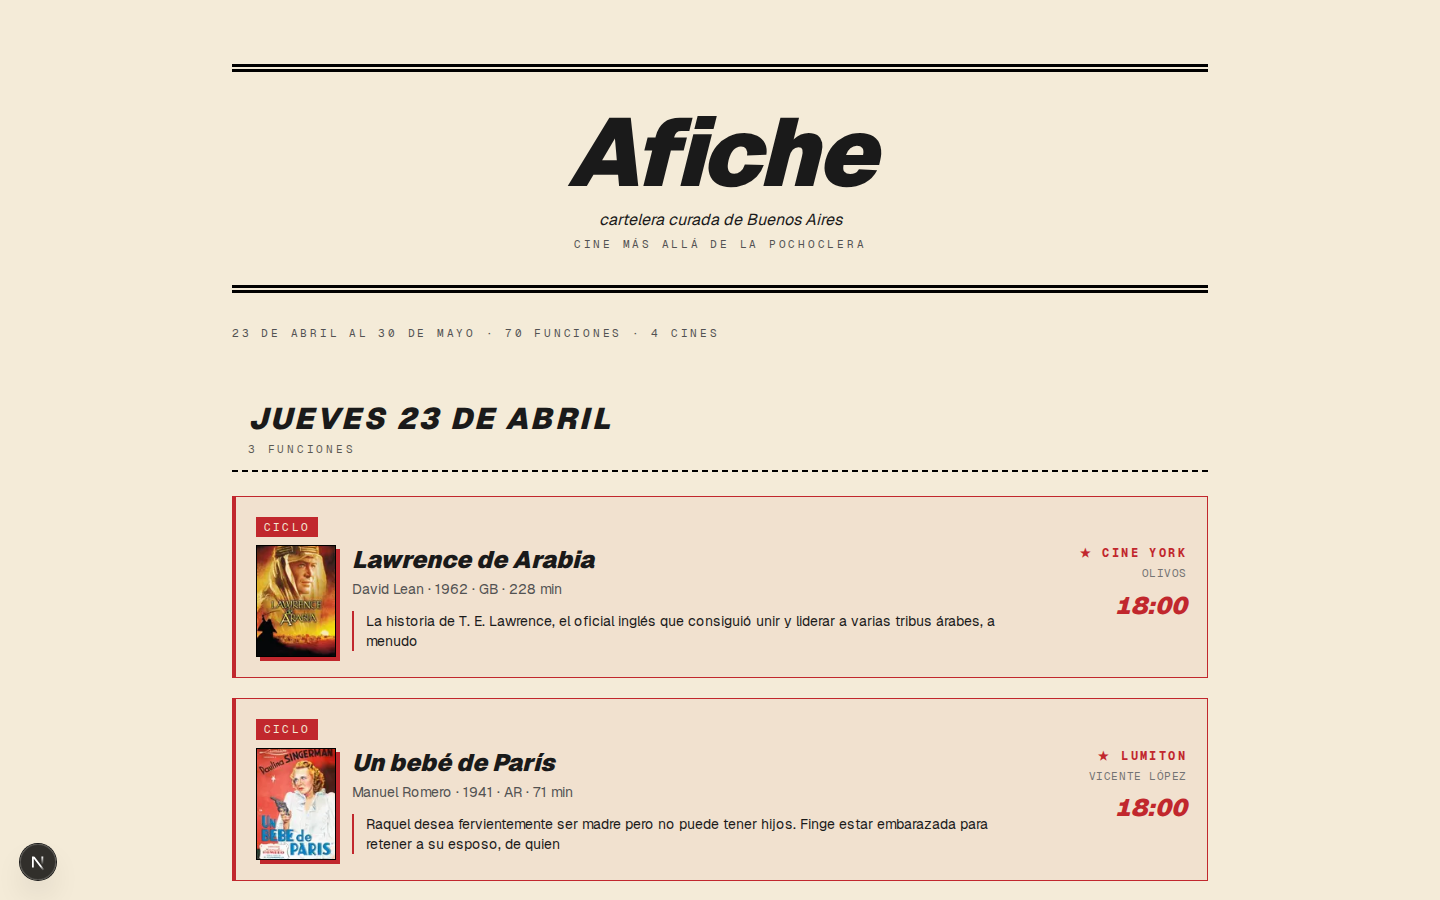
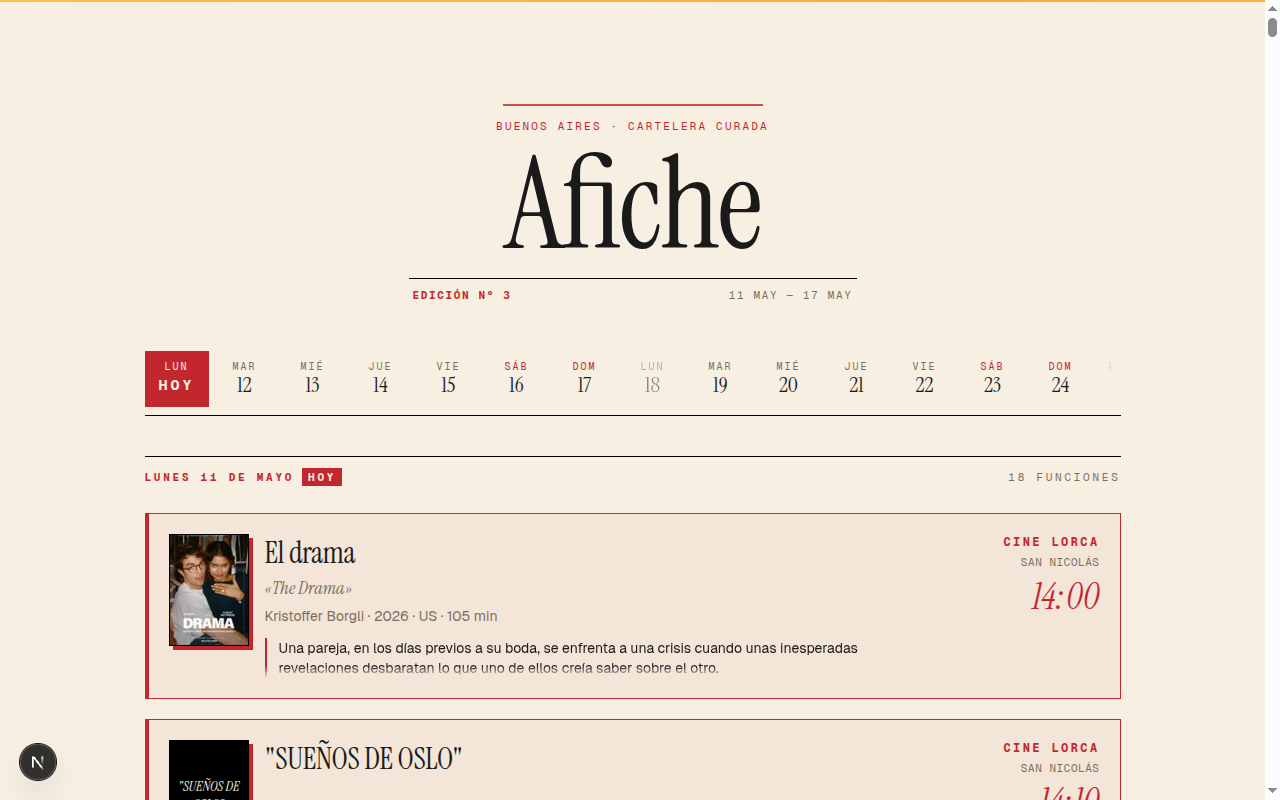
docs(readme): refresh for 2-tier cartelera + 7-cinema reality + fresh hero shots
The README had drifted significantly across the 2026-04 → 2026-05 work
cycle. Major staleness fixed in one pass:

- Tier structure: described as 3-tier (Esta semana / Este mes /
  Próximamente) but consolidated to 2-tier (14-day rolling window +
  Próximamente) in v0.2.0.x when the sticky date strip replaced
  scroll-skim navigation.
- Cinema count: said "5 indie cinemas" but actually 7 active now
  (added Cine Lorca and Cine Cosmos since the README was last touched).
  Cinemas table updated with both, including verified neighborhoods
  (Cine Cosmos is Balvanera, not Recoleta) and actual source domains.
- /pelicula/<slug> pages: README still listed "no film detail pages"
  as a NOT-yet item. They've shipped, cross-venue all-screenings is
  the killer feature there. Added a paragraph describing it.
- Stack: added Instrument Serif to the typography list (was Geist-only).
- Test count: 134 → 302 across 16 files (was 10).
- Test file inventory updated to include slug, queries, layout-invariants,
  cine-cosmos, cine-lorca, cine-lorca-cache.
- Architecture diagram: ×5 → ×7 providers, tier query names updated
  (getTwoWeeksScreenings + getUpcomingScreenings instead of the old
  three-tier getThisWeek/getThisMonth/getUpcoming names), added the
  /pelicula/<slug> sub-graph.
- Roadmap: dropped resolved items (MALBA 24:00 midnight parsing,
  Lumiton detail-page synopsis enrichment). Added the indexability
  question (#19) and Cine Lorca's VLM credit attribution.
[…]

diff --git a/README.md b/README.md
@@ -2,47 +2,51 @@
 
 **Cartelera curada de Buenos Aires — cine más allá de la pochoclera.**
 
-Afiche aggregates the weekly programming of Buenos Aires' independent and repertory cinemas into one clean, editorial-feel cartelera — a three-tier view (Esta semana → Este mes → Próximamente) that steps down in density as the horizon grows. Built for people who already know the difference between a Saturday at Lugones and a Saturday at Hoyts.
+Afiche aggregates the weekly programming of Buenos Aires' independent and repertory cinemas into one clean, editorial-feel cartelera — a 14-day rolling window of full cards (navigated by a sticky date strip that jumps to any day) plus a "Próximamente" text index for the longer tail. Built for people who already know the difference between a Saturday at Lugones and a Saturday at Hoyts.
 
-![Afiche week view](docs/screenshots/hero-desktop.png)
+![Afiche cartelera, desktop](docs/screenshots/hero-desktop.png)
 
 > [!NOTE]
-> Afiche is a personal project, now **live at [afiche.vercel.app](https://afiche.vercel.app)** (Next.js on Vercel + libSQL on Turso). The cron that refreshes prod runs from the dev machine (`npm run scrape:prod`), not GitHub Actions — runner IPs get 403'd by Cloudflare at lumiton.ar and complejoteatral.gob.ar. See [DEPLOY.md](DEPLOY.md) for the full ops setup. You can also clone the repo and run everything locally against a SQLite file — same code path, no Turso token needed.
+> Afiche is a personal project, **live at [afiche.vercel.app](https://afiche.vercel.app)** (Next.js on Vercel + libSQL on Turso). The cron that refreshes prod runs from the dev machine (`npm run scrape:prod`), not GitHub Actions — runner IPs get 403'd by Cloudflare at lumiton.ar and complejoteatral.gob.ar. See [DEPLOY.md](DEPLOY.md) for the full ops setup. You can also clone the repo and run everything locally against a SQLite file — same code path, no Turso token needed.
 
 ## What it does
 
-- **Scrapes 5 indie cinemas** every run: Sala Lugones, MALBA (two schedule formats), Cine York, Centro Cultural Munro, and the Lumiton flagship venue.
-- **Enriches each film via TMDB**: poster, director, runtime, country, original title. Smart merge logic handles the case where the same film surfaces without a year at one cinema and with a year at another.
-- **Renders a three-tier cartelera** — a server-rendered Next.js 16 page. *Esta semana* shows full cards grouped by day (the decision layer). *Este mes* compresses to compact cards for the rest of the current month. *Próximamente* is a flat text index for everything beyond, zine-back-page style. Chain cinemas (when we add them) get a de-emphasized typographic treatment, not a hidden toggle — curation is visible.
+- **Scrapes 7 indie cinemas** every run: Sala Lugones, MALBA (two schedule formats: dense-cycle + single-event prose), Cine York, Centro Cultural Munro, Lumiton, Cine Cosmos, and Cine Lorca (whose programming lives on a single weekly poster image — extracted via a Claude vision call with an image-hash cache).
+- **Enriches each film via TMDB**: poster, backdrop, director, runtime, country, original title, Spanish synopsis (es-AR → es fallback), genres, top-billed cast. Smart merge logic handles the case where the same film surfaces with title drift across cinemas (different localizations, year-null collisions), keyed on `tmdb_id` after enrichment so duplicates collapse deterministically. Title-ambiguity guard + director-verification prevent silent wrong-matches on common-title films (e.g., the *Nosferatu* class: Eggers 2024 vs Herzog 1979 vs Murnau 1922 all share a Spanish title).
+- **Renders a two-tier cartelera** — a server-rendered Next.js 16 page. *Tier 1* is a 14-day rolling window with full cards grouped by day, navigated by a sticky date strip; today is always position 0 and the strip extends 13 more days forward regardless of weekday. *Próximamente* is a flat text index for the longer tail, zine-back-page style. Chain cinemas (when we add them) get a de-emphasized typographic treatment, not a hidden toggle — curation is visible.
+- **Per-film pages at `/pelicula/<slug>`** — title block, optional 16:9 editorial still (TMDB backdrop, desktop-only), poster + synopsis, top-billed cast, and a cross-venue list of every upcoming screening of that film across BA. The "killer feature" of the page is cross-venue discovery — answers the "when *else* can I catch this?" question that no single venue's site can answer.
 
 ## What it does NOT do (yet)
 
-- No filters, search, or cinema-specific pages — the three-tier cartelera is the whole product right now.
-- No film detail pages — clicking a screening card opens the source ticketing URL.
-- **Cinépolis Recoleta is not yet supported** — their entire infrastructure is behind Cloudflare bot protection. Adding them requires Playwright + stealth, tracked in [TODOS.md](TODOS.md#1).
+- No filters or search — the cartelera *is* the index right now. Search (by title or director) is queued behind /pelicula/ usage data.
+- No cinema-specific pages — `/pelicula/<slug>` exists, but per-cinema pages don't.
+- No `/programa/<slug>` pages for curated cycles (Lugones Olivera-Aries, MALBA Cineclub Nocturna, etc.). Programs are denormalized text on screenings right now. Promotion to a first-class entity is queued behind a killer-feature trigger.
+- **Cinépolis Recoleta is not yet supported** — their entire infrastructure is behind Cloudflare bot protection. Adding them requires Playwright + stealth. Tracked in [TODOS.md](TODOS.md#1).
 - No dark mode — the editorial cream + carmine palette is the brand.
 
 ## Stack
 
-- **Next.js 16** (App Router, Server Components)
-- **React 19** + **Tailwind CSS 4** (design tokens via `@theme`)
-- **Geist** + **Geist Mono** typography
-- **Drizzle ORM** + **libSQL** (SQLite locally, targeting Turso for prod)
-- **cheerio** for HTML scraping
-- **Vitest** for testing (134 tests across date helpers, scraper providers, ingest, run logging, and TMDB enrichment)
+- **Next.js 16** (App Router, Server Components, force-dynamic on the cartelera + film pages)
+- **React 19** + **Tailwind CSS 4** (design tokens via `@theme`, see [DESIGN.md](DESIGN.md))
+- **Geist** (sans, body) + **Geist Mono** (caps, eyebrows) + **Instrument Serif** (display: masthead, day banners, film titles, italic time accents)
+- **Drizzle ORM** + **libSQL** (SQLite locally, Turso in production)
+- **cheerio** for HTML scraping; **Claude vision** (`claude-sonnet-4-6`) for Cine Lorca's image-only weekly poster, with image-hash cache
+- **Vitest** for testing (302 tests across 16 files: date helpers, scraper providers, ingest, run logging, TMDB enrichment, layout invariants)
 - **TMDB API** for film enrichment
 
 ## Cinemas covered
 
 | Cinema | Neighborhood | Type | Source |
 |---|---|---|---|
-| Sala Lugones | San Nicolás | indie / repertory | complejoteatral.gob.ar |
+| Sala Leopoldo Lugones | San Nicolás | indie / repertory | complejoteatral.gob.ar |
 | MALBA | Palermo | indie / museum | malba.org.ar |
+| Cine Lorca | San Nicolás | indie / repertory | cinelorca.wixsite.com (VLM-extracted poster) |
+| Cine Cosmos | Balvanera | indie / repertory | cinecosmos.uba.ar |
 | Cine York | Olivos | indie / repertory | lumiton.ar |
 | Centro Cultural Munro | Munro | indie / community | lumiton.ar |
 | Lumiton | Vicente López | indie / museum | lumiton.ar |
 
-Each cinema has a dedicated provider module in [`src/providers/`](src/providers) that knows that venue's HTML structure. Three of the five share `lumiton-agenda.ts` because Lumiton operates Cine York, Munro, and its flagship space from one combined agenda page.
+Each cinema has a dedicated provider module in [`src/providers/`](src/providers) that knows that venue's data shape. Three of the seven (Cine York, Munro, Lumiton) share `lumiton-agenda.ts` because Lumiton operates the three venues from one combined agenda page. Cine Lorca is the odd one out: its weekly programming lives on a single poster image (no HTML schedule, no API), so its provider downloads the image, hashes it for cache lookup, and on cache miss runs a Claude vision call (`temperature: 0`, structured JSON output) to extract the showtimes.
 
 ## Running locally
 
@@ -62,6 +66,7 @@ cp .env.example .env.local
 # then edit .env.local:
 #   DATABASE_URL=file:./local.db
 #   TMDB_API_TOKEN=<get one at themoviedb.org/settings/api>
+#   ANTHROPIC_API_KEY=<get one at console.anthropic.com> (only for Cine Lorca)
 
 # 3. Migrate the schema + seed baseline data
 npm run db:generate    # generate any pending Drizzle migrations
@@ -85,9 +90,12 @@ npm run dev
 │  ┌────────────────┐    ┌────────────────┐    ┌────────────────┐ │
 │  │ Provider       │─┬─▶│ Ingest         │───▶│ TMDB enrich    │ │
 │  │ (per cinema)   │ │  │ (upsert films  │    │ (poster, dir,  │ │
-│  │                │ │  │  + screenings) │    │  runtime, year)│ │
-│  └────────────────┘ │  └────────────────┘    └────────────────┘ │
-│        ×5           │                                           │
+│  │                │ │  │  + screenings) │    │  runtime, cast,│ │
+│  └────────────────┘ │  └────────────────┘    │  synopsis,     │ │
+│        ×7           │                        │  ambiguity     │ │
+│                     │                        │  guard + dir.  │ │
+│                     │                        │  verification) │ │
+│                     │                        └────────────────┘ │
 │                     ▼                                           │
 │              ┌──────────────┐                                   │
 │              │ scrape_runs  │   ← observability: one row per    │
@@ -99,17 +107,29 @@ npm run dev
 ┌─────────────────────────────────────────────────────────────────┐
 │  Next.js server component (src/app/page.tsx)                    │
 │                                                                 │
-│  getThisWeekScreenings(now)    → Tier 1 · Esta semana           │
-│  getThisMonthScreenings(now)   → Tier 2 · Este mes              │
-│  getUpcomingScreenings(now)    → Tier 3 · Próximamente          │
+│  getTwoWeeksScreenings(now)    → Tier 1 · 14-day rolling window │
+│  getUpcomingScreenings(now)    → Tier 2 · Próximamente          │
+│  getLastScreeningPerFilm(now)  → ÚLTIMA FUNCIÓN pill anchor     │
 │                                                                 │
-│  Three tiered queries, ISO-week-anchored, step-down density.    │
+│  Two tiered queries, sticky-date-strip navigation, full         │
+│  cards grouped by day in tier 1, text index in tier 2.          │
+└─────────────────────────────────────────────────────────────────┘
+                              │
+                              ▼
+┌─────────────────────────────────────────────────────────────────┐
+│  Next.js server component (src/app/pelicula/[slug]/page.tsx)    │
+│                                                                 │
+│  getUpcomingScreeningsByFilm(slug, now)                         │
+│                                                                 │
+│  Cross-venue all-screenings list — the "when else?" answer.     │
+│  Same code paths reach a `/pelicula/<slug>` URL from any        │
+│  cartelera card; one tap takes you there.                       │
 └─────────────────────────────────────────────────────────────────┘
 ```
 
-Each provider returns a flat `ScrapedScreening[]`. The ingest layer handles idempotency (unique index on `(scraped_title, year)`), retry semantics (`match_source='none-attempted'` after a failed TMDB match so we don't re-query forever), and year-resolution merges (if Lumiton scrapes Lawrence de Arabia with year=null and Lugones scraped it with year=1962, they reconcile into one row on TMDB enrichment).
+Each provider returns a flat `ScrapedScreening[]`. The ingest layer handles idempotency (unique index on `(scraped_title, scraped_year)`), retry semantics (`match_source='none-attempted'` after a failed TMDB match so we don't re-query forever), and year-resolution merges (if Lumiton scrapes *Lawrence de Arabia* with year=null and Lugones scraped it with year=1962, they reconcile into one row on TMDB enrichment via `tmdb_id` collision).
 
-The view splits the cartelera into three tiers — *Esta semana* (full cards, the decision layer), *Este mes* (compact cards, planning), *Próximamente* (text index, awareness) — so the zine metaphor holds: Edición Nº N IS tier 1. See [DESIGN.md](DESIGN.md) for the full hierarchy.
+The view is a 2-tier cartelera — *Tier 1* (full cards in a 14-day rolling window, the decision layer) and *Próximamente* (text index for everything beyond) — anchored to BA "today". See [DESIGN.md](DESIGN.md) for the full visual hierarchy and [CHANGELOG.md](CHANGELOG.md) for the per-release version history.
 
 ## Tests
 
@@ -118,35 +138,44 @@ npm test                 # watch mode
 npm run test:coverage    # one-shot with v8 coverage
 ```
 
-134 tests across:
+302 tests across 16 files:
 
+- `src/app/layout-invariants.test.ts` — flex-item width contracts (mobile-overflow guard) + line-clamp/display-utility co-location guard
+- `src/db/queries.test.ts` — query-layer behavior (visibility windows, deduplication)
 - `src/lib/iso-week.test.ts` — ISO-week anchoring in BA timezone (edition Nº arithmetic)
-- `src/lib/date-ranges.test.ts` — Tier 1/2/3 query-bound helpers (this-week / this-month / upcoming)
+- `src/lib/date-ranges.test.ts` — tier query-bound helpers (14-day window / upcoming)
+- `src/lib/slug.test.ts` — slug generation contract
 - `src/providers/lugones.test.ts` — complejoteatral.gob.ar parser + cross-month date-range regression
 - `src/providers/lumiton-agenda.test.ts` — shared agenda parser, venue filtering, detail-page enrichment
-- `src/providers/cine-york.test.ts` — filter + extraction + edge cases
+- `src/providers/cine-york.test.ts` — Lumiton agenda filtering + extraction edge cases
+- `src/providers/cine-cosmos.test.ts` — cinecosmos-uba.com.ar parser
+- `src/providers/cine-lorca.test.ts` — VLM showtime extraction (poster JSON contract)
+- `src/providers/cine-lorca-cache.test.ts` — image-hash cache invalidation (avoids re-billing the same poster)
 - `src/providers/malba.test.ts` — S1 (dense-cycle) + S2 (single-event / grouped-times) strategies
-- `src/scrapers/ingest.test.ts` — upsert, TMDB retry semantics, merge-on-collision
-- `src/scrapers/run-log.test.ts` — scrape_runs observability lifecycle
-- `src/tmdb/match.test.ts` — title+year matcher against TMDB
-- `src/tmdb/enrich.test.ts` — enrichment pipeline (poster, director, runtime, country)
+- `src/scrapers/ingest.test.ts` — upsert, TMDB retry semantics, merge-on-collision via tmdb_id
+- `src/scrapers/run-log.test.ts` — `scrape_runs` observability lifecycle
+- `src/tmdb/match.test.ts` — title+year matcher, title-ambiguity guard, popularity tiebreak
+- `src/tmdb/enrich.test.ts` — enrichment pipeline + director-verification rescue
 
-Fixtures under [`test/fixtures/`](test/fixtures) are real HTML captures from each source, stored verbatim so tests don't hit the network.
+Fixtures under [`test/fixtures/`](test/fixtures) are real HTML captures from each source (and a real poster image for Cine Lorca), stored verbatim so tests don't hit the network or burn vision-call credits.
 
 ## Credits
 
 This product uses the TMDB API but is not endorsed or certified by TMDB.
 
-[TMDB](https://www.themoviedb.org) provides the film metadata and poster images rendered alongside each screening. Afiche caches the posters to its own CDN rather than hot-linking, per TMDB's best-practice guidance, and never resells or commercially redistributes TMDB data.
+[TMDB](https://www.themoviedb.org) provides the film metadata, poster images, and editorial stills rendered alongside each screening. Afiche hotlinks TMDB's CDN (image.tmdb.org/t/p/w342{poster_path}) rather than re-hosting, per TMDB's best-practice guidance, and never resells or commercially redistributes TMDB data.
+
+Cine Lorca's image-only weekly programming is extracted via [Anthropic's Claude](https://www.anthropic.com/) vision API. The image is hashed and the result is cached locally, so a given poster is parsed at most once across the project's lifetime.
 
 ## Roadmap
 
-See [TODOS.md](TODOS.md) for the full backlog. The two big structural items:
+See [TODOS.md](TODOS.md) for the full backlog. The big structural items:
 
-1. **Cinépolis Recoleta scraper** — currently blocked on Cloudflare bot protection; needs Playwright + stealth tooling.
-2. **TMDB match-rate revisit** — deferred until Cinépolis data lands. The match rate is heavily weighted by Lugones' classic-rep programming (Argentine-distributor Spanish titles that TMDB doesn't index).
+1. **Cinépolis Recoleta scraper** — blocked on Cloudflare bot protection; needs Playwright + stealth tooling.
+2. **Indexability strategy for `/pelicula/<slug>`** — the per-film pages are currently `noindex` to protect against flap-404 SEO penalties when films leave BA. Question is whether to pivot to indexable + persistent pages (canonical BA cinema index) or stay on the curated-channels-only path. Captured as TODO #19 with the full decision factors; revisit via `/office-hours`.
+3. **MALBA recurring-weekly cycles** (S3) — the parser handles dense-cycle (S1) and single-event prose (S2) but not "Sábados a las 18:00" recurrence grammars. Trigger-gated on real warning data from `scrape_runs`.
 
-Plus a handful of smaller items queued behind those: MALBA S3 (recurring-weekly cycles), MALBA 24:00 midnight parsing, Lumiton detail-page synopsis enrichment, a `/admin/runs` log viewer, film-level discovery ("última función" + same-film repeats), and a card-composition rethink now that the cartelera is all-indie.
+Plus smaller polish items: a `/admin/runs` log viewer, .ics calendar export per screening, expanded TMDB enrichment (prizes/tagline), card-composition rethink, X presence + newsletter (#16, #17).
 
 ## License
 
